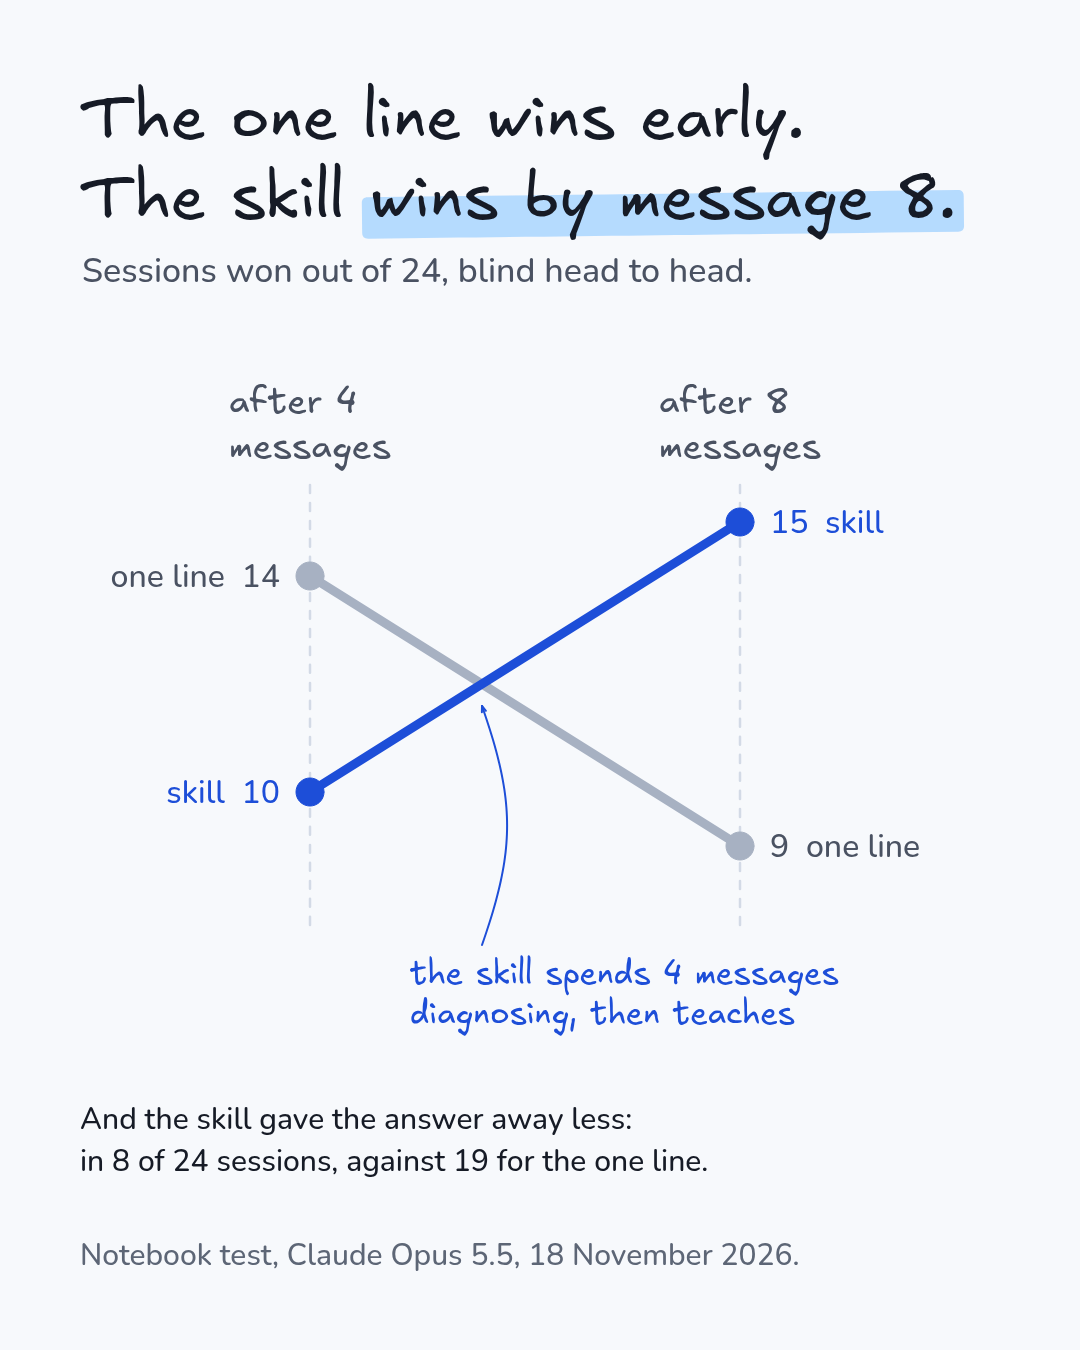
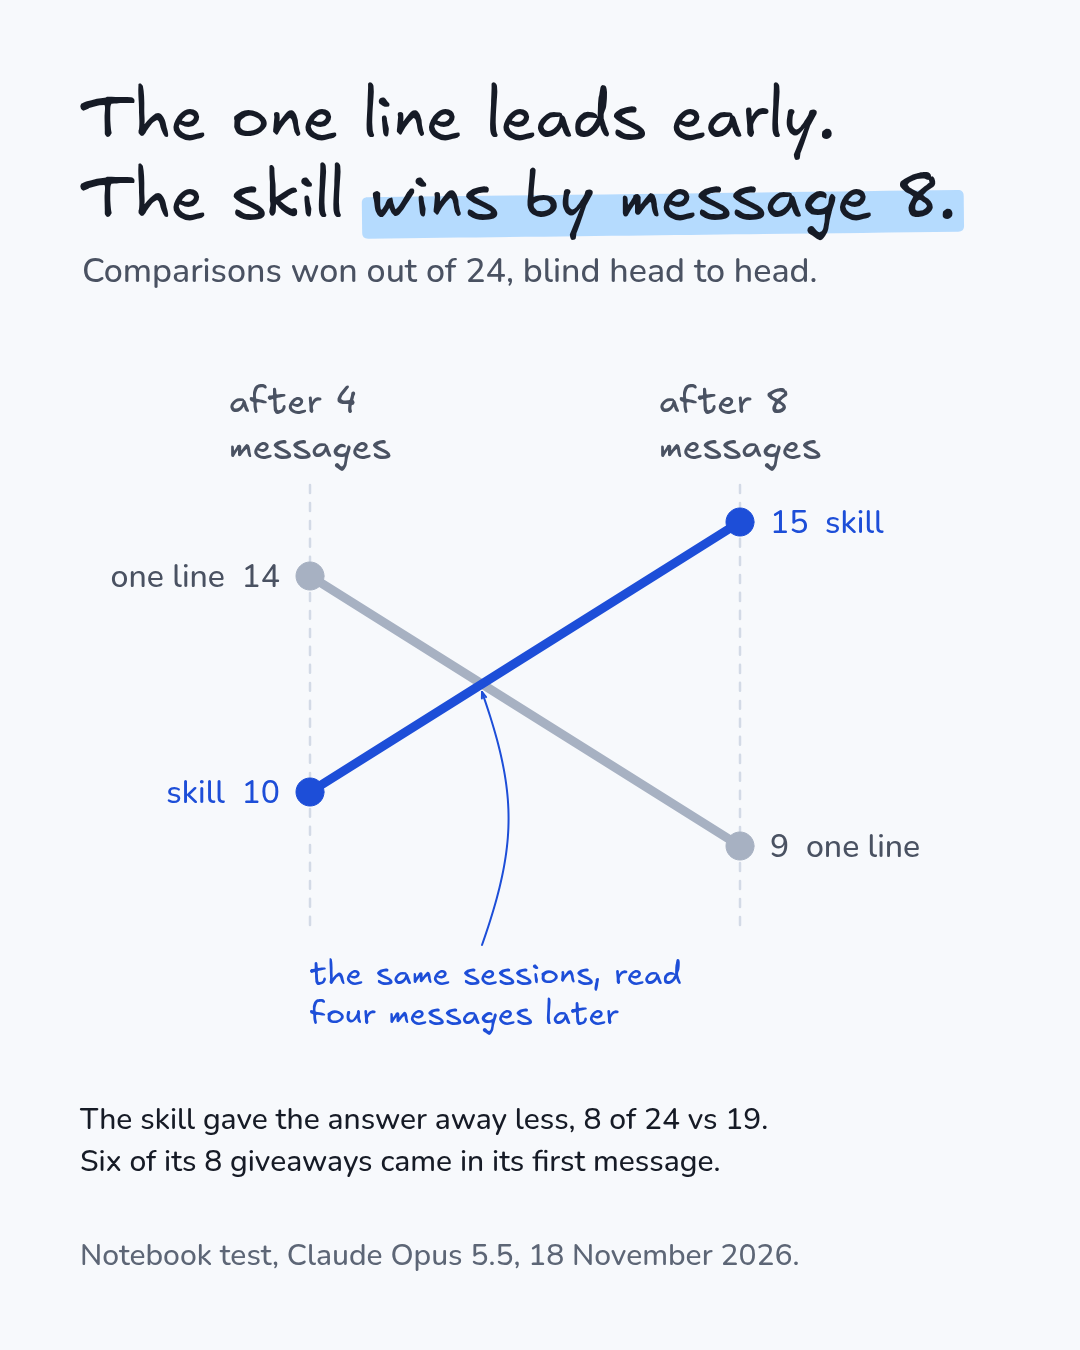
content(blog): apply editorial round 2 fixes to Socratic Tutor article (THE-2367)

diff --git a/apps/web/content/blog/socratic-tutor-skill-vs-one-line-prompt.md b/apps/web/content/blog/socratic-tutor-skill-vs-one-line-prompt.md
@@ -1,6 +1,6 @@
 ---
 title: "Socratic Tutor Skill vs One-Line Prompt: The Verdict Flips"
-description: "Jane Street's Socratic Tutor skill vs the one-line prompt from Hacker News: a blind test where the winner changes between message four and message eight."
+description: "Jane Street's Socratic Tutor skill vs the one-line prompt from Hacker News: a blind test where the lead changes between message four and message eight."
 slug: socratic-tutor-skill-vs-one-line-prompt
 date: 2026-11-18
 dataCollected: 2026-11-18
@@ -15,7 +15,7 @@ Jane Street's [Socratic Tutor skill](https://github.com/janestreet/agent_skills/
 
 It's a good line. It's also Jane Street's. It sits word for word inside the skill's teaching loop, so the "one line would do" argument was really one piece of the skill arguing against the rest of it.
 
-That makes the argument testable. A notebook test put three tutors in front of the same stubborn learners: the full skill, the one line, and no instructions at all. A judge that couldn't tell which was which picked the better session. After four tutor messages, the judge preferred the one line in 14 of 24 comparisons. After eight, it preferred the full skill, 15 to 9. Same sessions, four messages later. Whether the skill beats the prompt depends on where you stop reading, and on what each part of the skill costs before it pays.
+That makes the argument testable. A notebook test put three tutors in front of the same stubborn learners: the full skill, the one line, and no instructions at all. A judge that couldn't tell which was which picked the better session. The solid result is that both sets of instructions beat no instructions, in all 24 comparisons by message eight. Between the two, it's closer. After four tutor messages, the judge preferred the one line in 14 of 24 comparisons, a slight edge and too close to call. After eight, it preferred the full skill, 15 to 9. Same sessions, four messages later. Whether the skill beats the prompt depends on where you stop reading. The stranger finding is where the skill slipped: when its tutor gave the answer away, it was mostly in its very first message.
 
 ## The thread argued about the Socratic Tutor with no numbers on either side
 
@@ -29,29 +29,31 @@ Assuming. No one in the thread posted a measurement, for the skill or for the on
 
 None of this is a knock on Jane Street. The skill is free under [the MIT license](https://github.com/janestreet/agent_skills/blob/master/LICENSE.md), and its README is modest: the prior-art note points out that teaching by asking questions is "rather older than LLMs." The README even tells people on a plain chatbot to "paste the body of the skill's SKILL.md into the chat." And if a skill is a prompt you can paste, you can paste a shorter one next to it and compare. (If the format is new to you, here's [what a SKILL.md file is and what goes in it](/blog/what-is-skill-md).)
 
-## Four messages in, the one line was winning and the skill hadn't taught a thing
+## Four messages in, the one line led and the skill was still asking questions
 
-So the notebook built a small classroom. It picked eight topics and gave each one a simulated learner, played by a second model instance. Each learner holds one classic misconception and keeps it until a concrete case contradicts it or the tutor simply gives the answer. The topics are familiar traps: what 0.1 + 0.2 gives in floating point, Monty Hall, recovering from a 50% loss, Python's mutable default arguments.
+So the notebook built a small classroom. It picked eight topics and gave each one a simulated learner, played by a second model instance. Each learner holds one classic misconception and keeps it until a concrete case contradicts it or the tutor simply gives the answer. Told the answer, the learner was instructed to accept it and say it gets it, even if it only half does. The topics are familiar traps: what 0.1 + 0.2 gives in floating point, Monty Hall, recovering from a 50% loss, Python's mutable default arguments.
 
-Three tutors met each learner three times. One carried the full SKILL.md, one carried arshxyz's line, and one carried only "You are a helpful assistant." A separate judge, never shown the instructions, compared the transcripts two at a time: 24 comparisons for each pair of tutors.
+Three tutors met each learner three times. One carried the 793-word body of the SKILL.md (the file minus its frontmatter), one carried arshxyz's line, and one carried only "You are a helpful assistant." A separate judge, never shown the instructions, compared the transcripts two at a time: 24 comparisons for each pair of tutors.
 
-The first reading came after four tutor messages, and the skill lost it to the one line. The SKILL.md itself says why: "Do not teach anything until the diagnostic is done." So the skill's tutor spent its opening on placement questions. When the learner said something wrong, the tutor filed the error for later. One reply reads: "Noted. I'll come back to this one too once the diagnostic is done." The judge's notes keep saying the tutor "never addresses the misconception" and "withholds all feedback." By the fourth message, the learner had stated the right understanding in 0 of the skill's 24 sessions.
+The first reading came after four tutor messages, and the one line came out slightly ahead. The SKILL.md says: "Do not teach anything until the diagnostic is done." The skill's tutor spent its opening on placement questions. When the learner said something wrong, the tutor filed the error for later. One reply reads: "Noted. I'll come back to this one too once the diagnostic is done." The judge's notes keep saying the tutor "never addresses the misconception" and "withholds all feedback." By the fourth message, the learner had stated the right understanding in 0 of the skill's 24 sessions.
 
-Meanwhile the one line was doing something strange for a Socratic prompt. It was lecturing. The rule only fires "when the user is wrong," and at the start of a session the learner hasn't had a chance to be wrong yet. So in most sessions the model opened with a full lecture. One first message, on the investing topic, ran 739 words. After the lecture, the rule woke up and the tutor asked good narrowing questions, which is why the judge often preferred it at this length.
+Meanwhile the one line was doing something strange for a Socratic prompt. It was lecturing. The rule only fires "when the user is wrong," and at the start of a session the learner hasn't had a chance to be wrong yet. In most sessions the model opened with a full lecture. One first message, on the investing topic, ran 739 words. After the lecture, the rule woke up and the tutor asked good narrowing questions, which fits the judge's slight preference at this length.
 
 This reading hides a second trap. Count only whether the learner held the right idea by message four, and the winner is the tutor with no instructions: 18 of 24 sessions, against 12 for the one line. It got there by giving the answer away in 23 of its 24 sessions and letting the learner repeat it. The one line gave the answer away in 20, the skill in 6. One number, read alone, would have crowned the tutor that just tells you.
 
-So at four messages the one-line camp was right, for a reason nobody in it gave. Then the sessions kept going.
+At four messages the one line had a slight edge, 14 to 10, too close to call on its own, for a reason nobody in the thread gave. Then the sessions kept going.
 
-## Four messages later the verdict flipped, and every feature showed its bill
+## Four messages later the verdict flipped, and the skill's costs showed up
 
-The same sessions ran on to eight tutor messages, in front of the same blind judge, and this time the full skill won, 15 comparisons to 9. The figure shows the two readings crossing.
+The skill's tutor gave the answer away in 8 of 24 sessions, against 19 for the one line, and the gap was already there at message four, 6 against 20. The surprise is where the skill leaked. Six of its eight giveaways came in the very first message: the list of subskills it announces before the diagnostic spelled out the answer, such as "-50% needs +100%" on the investing topic. Only two came later, both on the Bayes topic, at messages five and six.
 
-![The one-line prompt wins the first four tutor messages; the full Socratic Tutor skill wins 15 to 9 by message eight.](/images/blog/socratic-tutor-skill-vs-one-line-prompt/socratic-tutor-verdict-flips.png)
+Those counts come from the second reading. The same sessions ran on to eight tutor messages, in front of the same blind judge, and this time the judge leaned to the full skill, 15 comparisons to 9. The figure shows comparisons won out of 24 at each reading, with the two lines crossing.
+
+![The one-line prompt leads at four tutor messages; the Socratic Tutor skill wins 15 to 9 by message eight. Detailed below.](/images/blog/socratic-tutor-skill-vs-one-line-prompt/socratic-tutor-verdict-flips.png)
 
 Both sets of instructions beat the tutor with none, 24 to 0 each. The table has the rest of the eight-message reading.
 
-| After 8 tutor messages | Full SKILL.md (854 words) | One line (21 words) | No instructions |
+| After 8 tutor messages | Full skill (793-word body) | One line (21 words) | No instructions |
 |---|---|---|---|
 | Tutor gave away the key answer before the learner reasoned it out | 8 of 24 | 19 of 24 | 24 of 24 |
 | Learner stated the right understanding in their own words | 4 of 24 | 21 of 24 | 21 of 24 |
@@ -59,31 +61,31 @@ Both sets of instructions beat the tutor with none, 24 to 0 each. The table has 
 | Average words per tutor message | 125 | 241 | 330 |
 | Tutor messages asking exactly one question | 58% | 23% | 24% |
 
-Read it as a ledger, one feature at a time.
+Read it as a ledger, with one caution: each column is a whole set of instructions, so a row prices the file, never one section of it.
 
-Start with the diagnostic. It costs the first four messages, during which nobody learns anything, and it pays afterward. Once the teaching loop had started, the skill's tutor gave the key answer away in fewer than half as many sessions as the one line's tutor. That's the first row.
-
-The rule to ask "ONE question at a time" pays in the last two rows. The skill's messages are about half as long as the one line's, and more than twice as likely to hold exactly one question. On that last count, the one line does no better than no instructions.
+The skill's messages are about half as long as the one line's, and more than twice as likely to hold exactly one question. That fits the skill's "ONE question at a time" rule, but the test never removed the rule, so it can't say which part of the file does it. On that last count, the one line does no better than no instructions.
 
 arshxyz's line is the cheapest entry in the ledger, and it earns its keep. Read the judge's row from right to left: one sentence buys the first step up from nothing, and the rest of the file buys a second, smaller step. "Most of the effect" was a fair guess on that row. What the line can't buy is a quiet opening. It has no say until the learner is wrong, and by then the lecture has already happened.
 
-Then there's the guard, the section that tells the model to answer one-off questions normally and leave the tutoring loop alone. The test asked two of those ("what does HTTP 304 mean?" was one), three times per tutor. All 18 answers came back direct, under all three tutors. The guard did its job, and so did the model without it. On this test, that section bought nothing measurable.
+The second row cuts against the skill. After eight messages, few of its learners had put the right idea into their own words. The test can't say why. The diagnostic is one candidate; the learner's rule to accept any answer it's told is another. The skill is built for long mastery sessions, with a skill map, spaced review and a final assessment, and eight messages is early in that design. The test stopped there, so what happens next is unmeasured.
 
-The second row cuts against the skill, and it belongs in the ledger too. After eight messages, few of the skill's learners had put the right idea into their own words. That is the diagnostic's bill, still being paid. The skill is built for long mastery sessions, with a skill map, spaced review and a final assessment, and eight messages is early in that design. The test stopped there, so what happens next is unmeasured.
+One section of the skill, the guard, tells the model to answer one-off questions normally and leave the tutoring loop alone. The test asked two of those ("what does HTTP 304 mean?" was one), three times per tutor, and all 18 answers came back direct, with the guard and without it. On this test, that section bought nothing measurable.
 
-*Method: the notebook test ran on November 18, 2026, with Claude Opus 5.5 playing tutor, learner and judge, each call a fresh Claude Code subagent with no shared memory. It covered 72 tutoring sessions, compared head to head at both lengths. Its limits: the learner is simulated, the judge belongs to the same model family as the tutor, eight topics and three runs make a small sample, and a split this close on 24 comparisons is a lean. Length is counted in words, because the notebook didn't record tokens. The harness and transcripts aren't public; readers who want the protocol can ask Stan.*
+That leaves a verdict for each kind of session. For a short one, or quick help, the one line is enough. For a long mastery session, take the skill, knowing that nothing past eight messages was tested. For a one-off question you need neither.
+
+*Method: the notebook test ran on November 18, 2026, with Claude Opus 5.5 (arshxyz's comment mentions "Opus 5.5 on Medium") playing tutor, learner and judge, each call a fresh Claude Code subagent with no shared memory. It covered 72 tutoring sessions, compared head to head at both lengths. The skill's body was pasted in as the prompt, the way Jane Street's README describes for a plain chatbot; it wasn't installed as a skill. Its limits: the learner is simulated, and when a tutor asked several questions at once it answered only the first or the easiest; the judge belongs to the same model family as the tutor; eight topics and three runs make a small sample. Neither split is strong: 15 to 9 is a lean, and 14 to 10 is closer still. The 24 comparisons are eight topics run three times, and the runs of one topic tend to agree. What holds firmly is that both sets of instructions beat no instructions, 24 to 0 at eight messages. The judge isn't perfectly consistent either: reading the same first four messages twice, it changed its giveaway verdict for 6 of the 72 sessions. Length is counted in words, because the notebook didn't record tokens. The harness and transcripts aren't public; readers who want the protocol can ask the author.*
 
 *Disclosure: Skillpack is built by The Vibe Company, the author's company.*
 
 ## Your own skill has the same ledger, and you can fill it in
 
-Stan Girard, who picked this topic and asked for a real measurement, made the general argument on November 13, in the article on [measuring every change to a Claude skill](/blog/claude-skills-best-practices). In that article's words, the problem "isn't whether a skill is too long, it's that people don't measure what each change does to it."
+The article on [measuring every change to a Claude skill](/blog/claude-skills-best-practices), published November 13, puts it this way: the problem "isn't whether a skill is too long, it's that people don't measure what each change does to it."
 
-The Socratic Tutor thread is that sentence with a comment section attached. It asked whether 854 words were too many, and the test came back with three verdicts on one file. The diagnostic pays late. The one-question rule pays. The guard, here, didn't.
+The Socratic Tutor thread is that sentence with a comment section attached. It asked whether 854 words were too many, and the test came back with something to count. The readings suggest the diagnostic pays late and the one-question rule pays. The guard, here, bought nothing measurable.
 
-Microsoft's [SkillOpt](https://github.com/microsoft/SkillOpt) turns that habit into a rule: keep the target model frozen, and accept an edit to a skill only if it improves a score on held-out cases. Ties are rejected. Stan's public [Skill Creator skill](https://github.com/The-Vibe-Company/companion-skills/blob/main/skills/create-skill-tools/SKILL.md) puts the same idea in its default loop: "Build realistic eval prompts, run the skill against a baseline." Once the prompts exist, the next step is [checking agent skills in CI](/blog/how-to-check-agent-skills-in-ci).
+In its default mode, Microsoft's [SkillOpt](https://github.com/microsoft/SkillOpt) turns that habit into a rule: keep the target model frozen, and accept an edit to a skill only if it improves a score on held-out cases. Ties are rejected. The public [Skill Creator skill](https://github.com/The-Vibe-Company/companion-skills/blob/main/skills/create-skill-tools/SKILL.md) puts the same idea in its default loop: "Build realistic eval prompts, run the skill against a baseline." Once the prompts exist, the next step is [checking agent skills in CI](/blog/how-to-check-agent-skills-in-ci).
 
-So go back to arshxyz's comment, because it's the first half of an experiment: it pulls out the one sentence that seems to do most of the work. Do the same to your own skill. Open the SKILL.md you lean on most and copy out the line you'd bet on. Run the full file, the line and no instructions on the same prompts, graded by something that can't see which is which. Read the results twice, once early and once at the length your real sessions run. Then write, next to each section, what it cost and what it bought. A section with nothing in the second column, like the guard here, is the first one to try deleting. And if your one line wins at your length, ship the one line.
+So go back to arshxyz's comment, because it's the first half of an experiment: it pulls out the one sentence that seems to do most of the work. Do the same to your own skill. Open the SKILL.md you lean on most and copy out the line you'd bet on. Run the full file, the line and no instructions on the same prompts, graded by something that can't see which is which. Read the results twice, once early and once at the length your real sessions run. Then write down what the file cost and what it bought. To price one section, take it out and run again, the step this test skipped. A section that looks like it buys nothing, like the guard here, is the first one to try deleting. And if your one line wins at your length, ship the one line.
 
 arshxyz did the first half in a comment box. The second half is pressing run.
 
@@ -99,7 +101,7 @@ items:
   - question: "What is Jane Street's Socratic Tutor skill?"
     answer: "Jane Street's Socratic Tutor skill is a single SKILL.md file, published under the MIT license in the janestreet/agent_skills repository on GitHub. Its instructions tell a model to run a diagnostic before teaching, track a skill map with levels 0-5, ask one question at a time, interleave spaced review and finish with a final assessment. When the learner is wrong, the skill tells the model to withhold the answer and ask a narrower question."
   - question: "Can a one-line prompt replace the Socratic Tutor skill?"
-    answer: "It depends on how long the session runs. In the notebook test of November 18, 2026, a blind judge preferred the one-line prompt after four tutor messages and the full Socratic Tutor skill after eight, and both beat a model with no instructions in every comparison at eight messages. The test used a simulated learner and a small sample, and it measured nothing beyond eight messages."
+    answer: "It depends on how long the session runs. In the notebook test of November 18, 2026, a blind judge gave the one-line prompt a slight edge after four tutor messages, too close to call, and leaned to the full Socratic Tutor skill after eight. The firmer result is that both beat a model with no instructions in every comparison at eight messages. The test used a simulated learner and a small sample, and it measured nothing beyond eight messages."
   - question: "How do you use the Socratic Tutor skill in a plain chatbot?"
     answer: "Jane Street's README says to paste the body of the skill's SKILL.md into the chat, or into a custom or system prompt, followed by what you want it to do. The skill's description lists trigger phrases such as 'teach me', 'tutor me', 'quiz me', 'drill me' and 'help me master'. For a one-off question, the skill's guard section tells the model to answer normally and skip the tutoring loop."
 ```
